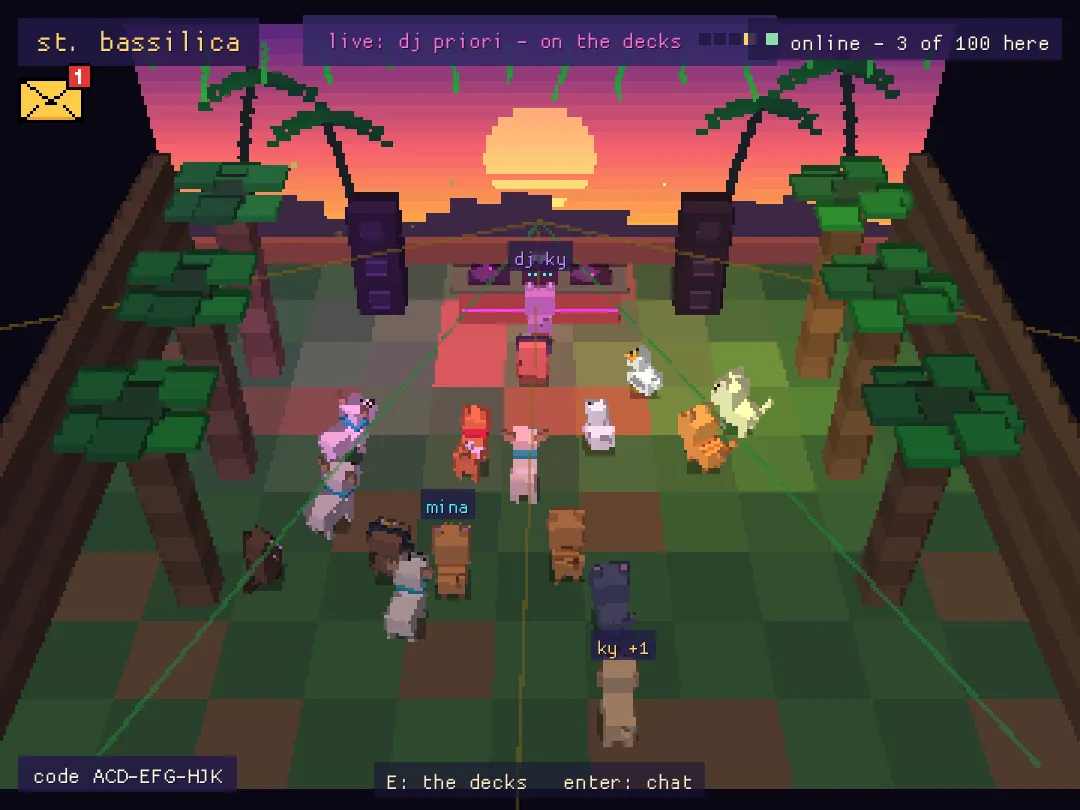
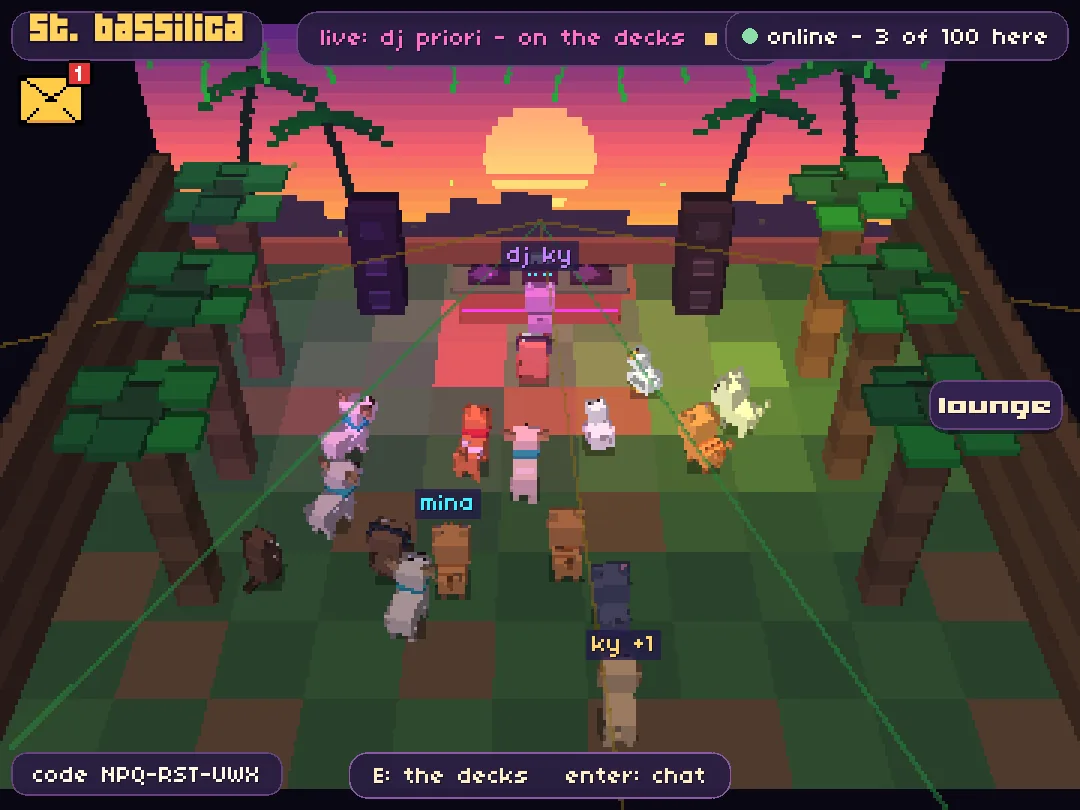
Fresh screenshots of the new look, plus home, companion chat and the DJ lounge in the README and the gallery
Claude-Session: https://claude.ai/code/session_01GZvBMX9uq21BBCSxcAhao6

diff --git a/web/index.html b/web/index.html
@@ -874,13 +874,16 @@
       <div class="inside-links"><a href="#glcanvas">play now</a><a class="cuppa" href="https://paypal.me/kyurishin" target="_blank" rel="noopener">buy me a cuppa</a></div>
     </div>
     <ul class="shots">
-        <li><figure><a href="shots/town.webp" target="_blank" rel="noopener"><img src="shots/town.webp" alt="home: jam by the campfire, fish on the beat, cook percussion with your friend." width="1080" height="810" loading="lazy" decoding="async"></a><figcaption><b>home</b>jam by the campfire, fish on the beat, cook percussion with your friend.</figcaption></figure></li>
+        <li><figure><a href="shots/home.webp" target="_blank" rel="noopener"><img src="shots/home.webp" alt="home: sing with your animal's voice, loop it and jam by the campfire. the new top bar keeps music, chat, items, help and settings a click away." width="1080" height="810" loading="lazy" decoding="async"></a><figcaption><b>home</b>sing with your animal's voice, loop it and jam by the campfire. the new top bar keeps music, chat, items, help and settings a click away.</figcaption></figure></li>
+        <li><figure><a href="shots/partner.webp" target="_blank" rel="noopener"><img src="shots/partner.webp" alt="your companion: call your animal and it talks back, written by claude. ask it to cook, fish, collect, sit with you or hum a tune." width="1080" height="810" loading="lazy" decoding="async"></a><figcaption><b>your companion</b>call your animal and it talks back, written by claude. ask it to cook, fish, collect, sit with you or hum a tune.</figcaption></figure></li>
+        <li><figure><a href="shots/town.webp" target="_blank" rel="noopener"><img src="shots/town.webp" alt="the town: your cottage, the campfire, the dock and the forest path to the chapel." width="1080" height="810" loading="lazy" decoding="async"></a><figcaption><b>the town</b>your cottage, the campfire, the dock and the forest path to the chapel.</figcaption></figure></li>
         <li><figure><a href="shots/pc-bang.webp" target="_blank" rel="noopener"><img src="shots/pc-bang.webp" alt="the pc bang: fat old computers, a red arcade cabinet and mr. kim at the counter." width="1080" height="810" loading="lazy" decoding="async"></a><figcaption><b>the pc bang</b>fat old computers, a red arcade cabinet and mr. kim at the counter.</figcaption></figure></li>
         <li><figure><a href="shots/rave-exe.webp" target="_blank" rel="noopener"><img src="shots/rave-exe.webp" alt="rave.exe: book your own rave and get a secret code to share." width="1080" height="810" loading="lazy" decoding="async"></a><figcaption><b>rave.exe</b>book your own rave and get a secret code to share.</figcaption></figure></li>
         <li><figure><a href="shots/terminal.webp" target="_blank" rel="noopener"><img src="shots/terminal.webp" alt="the terminal: a capture-the-flag hunt for tonight's code. drag to select, copy and paste." width="1080" height="810" loading="lazy" decoding="async"></a><figcaption><b>the terminal</b>a capture-the-flag hunt for tonight's code. drag to select, copy and paste.</figcaption></figure></li>
         <li><figure><a href="shots/door.webp" target="_blank" rel="noopener"><img src="shots/door.webp" alt="the door: the goose at st. bassilica only lets you in with the code." width="1080" height="810" loading="lazy" decoding="async"></a><figcaption><b>the door</b>the goose at st. bassilica only lets you in with the code.</figcaption></figure></li>
         <li><figure><a href="shots/chapel.webp" target="_blank" rel="noopener"><img src="shots/chapel.webp" alt="st. bassilica: up to a hundred ravers, names over heads, chat with enter." width="1080" height="810" loading="lazy" decoding="async"></a><figcaption><b>st. bassilica</b>up to a hundred ravers, names over heads, chat with enter.</figcaption></figure></li>
         <li><figure><a href="shots/decks.webp" target="_blank" rel="noopener"><img src="shots/decks.webp" alt="the decks: djs play the in-game decks live for the whole room, or stream real audio." width="1080" height="810" loading="lazy" decoding="async"></a><figcaption><b>the decks</b>djs play the in-game decks live for the whole room, or stream real audio.</figcaption></figure></li>
+        <li><figure><a href="shots/lounge.webp" target="_blank" rel="noopener"><img src="shots/lounge.webp" alt="the dj lounge: backstage for djs: a wall tv, sofas to sit on, and the goose's bar, where every treat glows for 30 seconds." width="1080" height="810" loading="lazy" decoding="async"></a><figcaption><b>the dj lounge</b>backstage for djs: a wall tv, sofas to sit on, and the goose's bar, where every treat glows for 30 seconds.</figcaption></figure></li>
         <li><figure><a href="shots/jungle.webp" target="_blank" rel="noopener"><img src="shots/jungle.webp" alt="jungle at sunset: the dj picks the room. palms, vines and fireflies." width="1080" height="810" loading="lazy" decoding="async"></a><figcaption><b>jungle at sunset</b>the dj picks the room. palms, vines and fireflies.</figcaption></figure></li>
         <li><figure><a href="shots/san-francisco.webp" target="_blank" rel="noopener"><img src="shots/san-francisco.webp" alt="the bay: a terrace over san francisco, the bridge and the fog rolling in." width="1080" height="810" loading="lazy" decoding="async"></a><figcaption><b>the bay</b>a terrace over san francisco, the bridge and the fog rolling in.</figcaption></figure></li>
         <li><figure><a href="shots/kinky.webp" target="_blank" rel="noopener"><img src="shots/kinky.webp" alt="red room: black, red, neon and chains." width="1080" height="810" loading="lazy" decoding="async"></a><figcaption><b>red room</b>black, red, neon and chains.</figcaption></figure></li>

diff --git a/README.md b/README.md
@@ -71,6 +71,8 @@ On a phone, the web version shows a stick on the left, six note buttons and a bi
 | P | one or two players (split screen outdoors) |
 | N twice | fresh world |
 
+![Home: the top bar, the loop grid and the six note cards](web/shots/home.webp)
+
 **The screen:** along the top, the logo, then the tabs **Music** (music mode on or off), **Chat** (talk to your companion), **Items** (your bag), **H** (help) and **Settings** (the pause menu). On the right, the radio pill: play/pause turns the beat on or off, the label shows the quantise setting (click to change it) or the song that's on, and the slider is the master volume. Under it, the time and weather, the campfire's fuel, wood, stone and fish, dishes discovered and your acorns. At the bottom, the loop grid (notes in their pitch rows, the current step lit) and the six note cards. On narrow screens the tabs shrink to icons.
 
 **The pause menu** (Esc, or click the game) has a mixer (you, your friend, beat & pot, world, master) and buttons, each with its key: **fishdex (F)**, **restart (R twice)**, **dj set (J)**, **karaoke (K, only at localhost:4747)**, **companion (C)** and **account (A)**.
@@ -98,6 +100,8 @@ Press V (or start a new game) to choose who you are and who your friend is. W/S 
 ### Talking with your companion
 
 Press **Enter** or the **Chat** tab to open the talk box. Call your companion by its animal ("otter", "dog", "labrador"...), by any other animal in the game, or just "buddy", "partner" or "pal", and it answers. Its replies are written by Claude Haiku 5.5 through the game server, in a cheerful voice with a touch of old storybook fantasy. The talk box keeps the whole conversation (scroll with the wheel, the arrow keys, Page Up/Down or the scroll bar), and the latest exchange also shows in a little card at the bottom left while you play.
+
+![Talking with your companion](web/shots/partner.webp)
 
 It can also do what you ask:
 
@@ -234,6 +238,8 @@ DJs are members of a 5 euro a month Patreon tier. Each gets a **DJ key** from th
 - **The look of the room:** while live, "look" changes the chapel for everyone: gothic chapel, jungle at sunset, a terrace over San Francisco, or a red room in black, red, neon and chains.
 - **Practice:** offline, anyone can practise on the decks; only you hear it.
 - **The DJ lounge:** in the chapel, DJs and the admin get a **lounge** button on the right of the screen. It leads to a cosy backstage room with sofas, lamps and the goose's bar, where other DJs hang out too and the room chat carries on. The wall TV above the sofa plays the same pixel channels as the TV at home. E in front of the sofa or the armchair sits you down (a seat someone is already in is skipped); any move key stands you up, and everyone sees who's sitting. E at the bar buys a cola (3 acorns), club-mate (4), sparkling water (2), vanilla ice cream (5) or a franzbroetchen (6), and each one gives you its own effect for 30 seconds that everyone in the room sees: fizzy bubbles, green sparks, blue ripples, falling snow or a warm golden glow. The **club** button, Esc or the lounge door takes you back to the dance floor.
+
+![The DJ lounge: the wall tv, the sofa and the goose's bar](web/shots/lounge.webp)
 
 ![The jungle at sunset](web/shots/jungle.webp)
 
